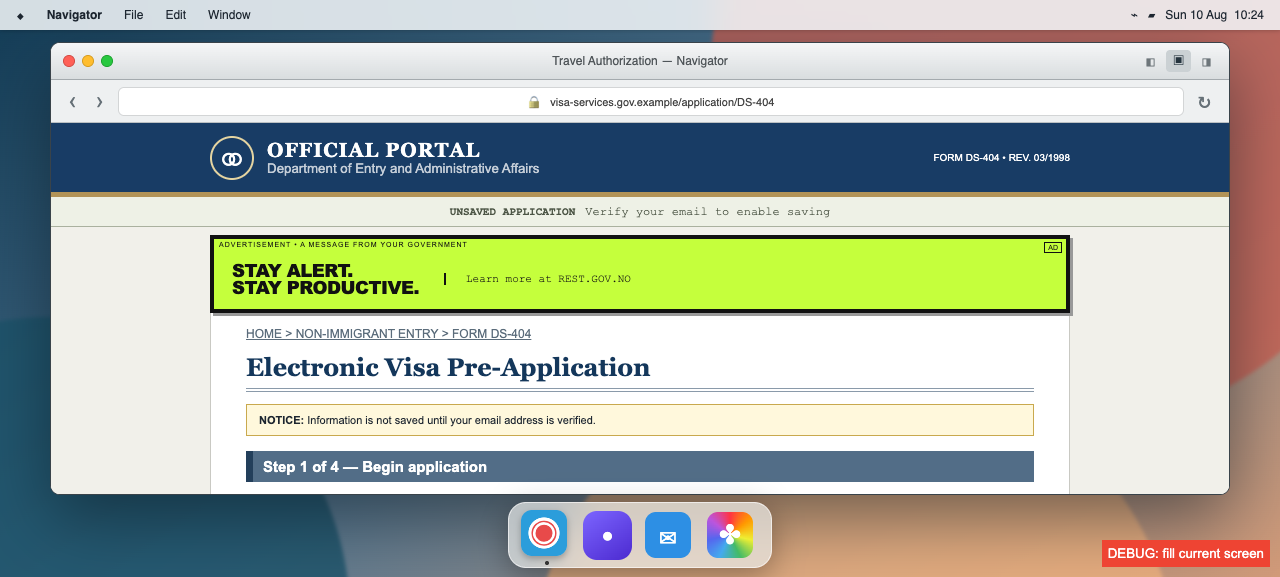
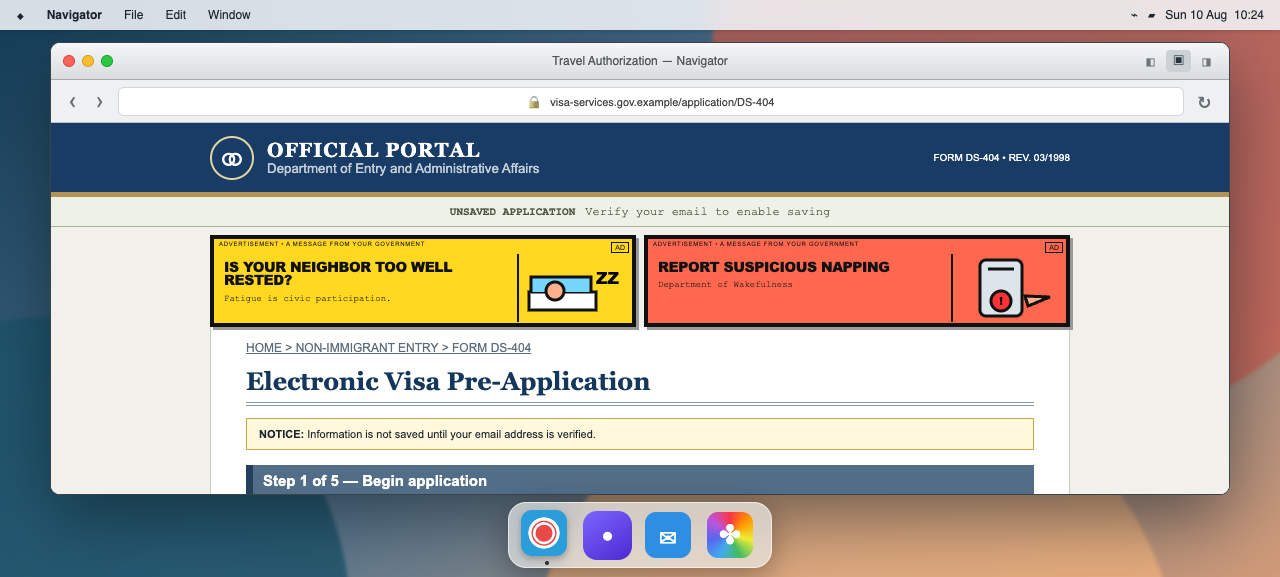
Animate ad artwork while keeping copy readable

Changed region(s): [[0.1562, 0.4055, 0.8438, 0.8735], [0.8438, 0.9359, 1.0, 0.9983]]

diff --git a/aug10/src/style.css b/aug10/src/style.css
@@ -1,3 +1,3 @@
 @import url('https://fonts.googleapis.com/css2?family=DM+Sans:wght@400;500;600;700&family=Libre+Franklin:wght@400;600;700&display=swap');
-*{box-sizing:border-box}body{margin:0;overflow:hidden;font-family:'DM Sans',sans-serif;color:#1d2630}.desktop{height:100vh;min-height:520px;position:relative;overflow:hidden;background:#152f46}.wallpaper{position:absolute;inset:0;background:linear-gradient(145deg,#123b55,#4f7591 46%,#d19a78);overflow:hidden}.orb{position:absolute;border-radius:50%;filter:blur(2px);opacity:.8}.o1{width:700px;height:700px;background:#c75f52;right:-130px;top:-270px}.o2{width:650px;height:650px;background:#efb17e;right:100px;bottom:-430px}.o3{width:600px;height:600px;background:#1b5269;left:-250px;bottom:-340px}.menubar{height:30px;position:absolute;z-index:20;top:0;left:0;right:0;background:rgba(245,248,250,.86);backdrop-filter:blur(16px);display:flex;align-items:center;gap:22px;padding:0 16px;font-size:12px;box-shadow:0 1px 4px #0003}.menubar aside{margin-left:auto}.window{position:absolute;border:1px solid #39434a;border-radius:10px;overflow:hidden;box-shadow:0 24px 70px #07141d88;background:#fff}.titlebar{height:37px;background:linear-gradient(#f5f6f7,#d9dddf);border-bottom:1px solid #a4aaae;display:flex;align-items:center;justify-content:center;font-size:12px;color:#4f5559;position:relative;cursor:grab;touch-action:none;user-select:none}.titlebar:active{cursor:grabbing}.lights{display:flex;gap:7px;position:absolute;left:12px}.lights button,.lights i{display:block;padding:0;width:12px;height:12px;border-radius:50%;background:#ff6057;border:1px solid #d34d46}.lights button:hover:after{content:'×';display:block;font:bold 10px Arial;line-height:9px;color:#7b201c}.lights i:nth-child(2){background:#ffbd2e;border-color:#d79d22}.lights i:nth-child(3){background:#28c840;border-color:#1ea331}.layout-controls{position:absolute;right:10px;display:flex;gap:3px}.layout-controls button{width:25px;height:22px;padding:0;border:1px solid transparent;border-radius:4px;background:transparent;color:#6d757a;cursor:pointer}.layout-controls button:hover{background:#fff;border-color:#b7bdc0}.layout-controls button.selected{background:#cbd1d4;color:#25343e}.window.layout-left,.window.layout-right{top:38px!important;bottom:82px!important;width:calc(50vw - 11px)!important;height:auto!important;min-width:0!important;transform:none!important}.window.layout-left{left:7px!important;right:auto!important}.window.layout-right{right:7px!important;left:auto!important}.browser{inset:52px 50px 86px;z-index:2;min-width:850px}.toolbar{height:43px;background:#eef0f1;display:flex;align-items:center;gap:8px;padding:5px 12px;border-bottom:1px solid #bbc0c3}.toolbar button{border:0;background:none;font-size:22px;color:#667077}.address{height:29px;line-height:29px;background:#fff;border:1px solid #d3d5d6;border-radius:6px;text-align:center;font-size:11px;color:#444;flex:1}.site{height:calc(100% - 80px);overflow:auto;background:#f1f0ea;font-family:Arial,sans-serif}.govbar{height:74px;background:#183c65;color:white;display:flex;align-items:center;padding:8px calc((100% - 860px)/2);gap:13px;border-bottom:5px solid #b29357}.govbar .seal{border:2px solid #e4d4a1;border-radius:50%;height:44px;width:44px;display:grid;place-items:center;font-size:27px}.govbar div{display:flex;flex-direction:column}.govbar b{font-family:Georgia;font-size:20px;letter-spacing:1px}.govbar small{opacity:.75}.govbar em{font-style:normal;font-size:10px;margin-left:auto;white-space:nowrap}.session{height:30px;background:#eef1e6;border-bottom:1px solid #aab19f;display:flex;justify-content:center;align-items:center;gap:10px;font:11px 'Courier New';color:#4c5545}.session span{font-size:12px}.session.urgent{background:#ffd7bd;border-color:#d3652e;color:#8b1b0f;animation:warningPulse 1s steps(2,end) infinite}.session.urgent span{font-size:16px;font-weight:bold}.gov-ad{width:860px;max-width:calc(100% - 40px);height:78px;margin:8px auto 0;background:#ffd81f;border:4px solid #111;position:relative;overflow:hidden;color:#111;font-family:'Arial Black',Arial,sans-serif;box-shadow:3px 3px 0 #999}.gov-ad>small{position:absolute;z-index:4;left:5px;top:2px;font:7px Arial;letter-spacing:1px}.gov-ad>i{position:absolute;right:4px;top:3px;border:1px solid #111;padding:1px 3px;font:7px Arial}.ad-frames{position:absolute;inset:0}.ad-frames>div{position:absolute;inset:0;padding:15px 65px 5px 18px;display:flex;align-items:center;gap:25px;opacity:0;animation:adFrames 6s steps(1,end) infinite}.ad-frames>div:nth-child(2){animation-delay:2s;background:#ff684f}.ad-frames>div:nth-child(3){animation-delay:4s;background:#c5ff3c}.ad-frames b{font-size:18px;line-height:.95;letter-spacing:-.5px}.ad-frames span{font:11px 'Courier New';border-left:2px solid;padding-left:20px}.formbody{width:860px;max-width:calc(100% - 40px);min-height:calc(100% - 128px);margin:auto;background:#fff;border-left:1px solid #c9c9c3;border-right:1px solid #c9c9c3;padding:14px 35px 24px}.crumb{font-size:9px;color:#5b6c7b;margin:0 0 12px;text-decoration:underline}.formbody h1{font:700 25px Georgia;color:#14375b;border-bottom:4px double #8a9aaa;padding-bottom:7px;margin:0 0 12px}.formbody h2{font:bold 15px Arial;color:#fff;background:#526d87;padding:7px 10px;margin:15px 0 12px;border-left:7px solid #233f5b}.formbody p{font-size:12px}.warning{background:#fff8dc;border:1px solid #c9a94e;padding:9px 12px;font-size:11px}.warning.blue{background:#edf5fa;border-color:#8cabbf}.grid{display:grid;grid-template-columns:1fr 1fr;gap:11px 22px}label{display:flex;flex-direction:column;gap:4px;font:bold 11px Arial;color:#273b4d}label.wide{grid-column:1/-1}input{height:29px;border:1px inset #999;border-radius:0;background:#fffefa;padding:4px 7px;font:13px 'Courier New'}input:focus{outline:2px solid #e5ba31;background:#fff}.error{color:#b71f1f;font-weight:normal}.actions{border-top:1px solid #c9c9c9;margin-top:20px;padding-top:12px;display:flex;justify-content:flex-end;gap:10px}.actions button,.success button,.expired button{font:bold 11px Arial;padding:7px 13px;border:1px solid #777;background:linear-gradient(#fff,#ddd);box-shadow:1px 1px 0 #aaa}.actions .continue{background:linear-gradient(#6383a1,#345775);color:white;border-color:#243d53}.help{text-align:center;color:#777;font-style:italic}.tiny{font-size:10px!important}.upload{height:46px;border:1px solid #aaa;background:#f3f3f3;padding:7px;display:flex;justify-content:space-between;align-items:center;font-weight:normal;color:#777}.upload.chosen{color:#216332;background:#f1f8f1}.upload button{font-size:11px}.site footer{text-align:center;padding:12px;background:#183c65;color:#bdc9d4;font-size:9px}.site footer button{border:0;background:none;color:#d5dce3;text-decoration:underline;font:9px Arial;cursor:pointer}.site footer span{margin:0 6px}.policy-page{min-height:420px}.policy-page table{border-collapse:collapse;width:100%;font-size:11px}.policy-page th,.policy-page td{border:1px solid #888;padding:7px;text-align:left}.inaccessible{color:#858b8f;font-size:10px}.inaccessible h1,.inaccessible h2{color:#78838b}.marquee{overflow:hidden;white-space:nowrap;background:#ffff9b;border:1px solid #bbb;padding:4px;color:#999}.marquee span{display:inline-block;animation:marquee 11s linear infinite}.contrast{margin:15px 0;color:#aaa}.privacy-choice{display:flex;flex-direction:row;align-items:center;justify-content:space-between;border:1px solid #bbb;background:#f5f4ed;padding:10px;margin:7px 0;color:#263a4a}.privacy-choice span{display:flex;flex-direction:column;gap:2px}.privacy-choice small{font-weight:normal;color:#666}.privacy-choice input{width:19px;height:19px}.legalese{font:10px/1.25 'Times New Roman'!important;text-align:justify}.cookie-wall{position:absolute;z-index:8;inset:80px 0 0;background:#15202dbb;display:grid;place-items:center;backdrop-filter:blur(2px)}.cookie-box{width:500px;max-width:90%;background:#fff;border:6px solid #ffd51f;box-shadow:0 15px 40px #000;padding:20px 24px;text-align:left;font-family:Arial}.cookie-box h2{font-size:24px;margin:0 0 8px;color:#162f50}.cookie-icon{float:right;font-size:24px;color:#ca9b00;letter-spacing:-8px}.cookie-marketing{display:flex;flex-direction:row;align-items:center;gap:10px;background:#f1f1e9;border:1px solid #aaa;padding:10px;margin:14px 0}.cookie-marketing input{width:22px;height:22px}.cookie-marketing span{display:flex;flex-direction:column}.cookie-marketing small{font-weight:normal}.cookie-buttons{display:flex;gap:8px}.cookie-buttons button{flex:1;padding:11px 8px;border:2px solid #102d4c;background:#173f68;color:#fff;font-weight:bold}.cookie-buttons button+button{background:#fff;color:#173f68}.cookie-box>small{display:block;text-align:center;color:#888;margin-top:9px}.questions{display:flex;flex-direction:column;gap:9px}.questions fieldset{border:1px solid #9aa2a7;background:#f6f6f2;padding:9px 12px}.questions legend{font:bold 11px Arial;color:#263d52;padding:0 5px}.questions label{display:inline-flex;flex-direction:row;align-items:center;margin:5px 22px 0 0;font-weight:normal}.questions input[type=radio]{width:15px;height:15px}.questions .error{display:block;margin-top:4px}.pdf-preview{position:relative;margin:18px auto 5px;background:#fff;color:#111;border:1px solid #aaa;box-shadow:0 5px 16px #0004;padding:24px 28px;font:10px 'Courier New';background-image:linear-gradient(90deg,#fff 0,#fff 97%,#f6f6f6 97%)}.pdf-preview:after{content:'DRAFT';position:absolute;left:30%;top:42%;font:bold 72px Arial;color:#244c7810;transform:rotate(-32deg);pointer-events:none}.pdf-preview>header{display:flex;align-items:center;border-bottom:3px double #111;padding-bottom:10px}.pdf-preview>header .seal{border:2px solid;border-radius:50%;width:42px;height:42px;display:grid;place-items:center;font-size:23px}.pdf-preview>header div{display:flex;flex-direction:column;margin-left:12px;font-size:15px}.pdf-preview>header small{font-size:8px}.pdf-preview>header em{margin-left:auto;font-style:normal}.pdf-preview section{position:relative;border-bottom:1px solid #999;padding:10px 0}.pdf-preview section h3{margin:0 0 8px;font-size:11px}.pdf-preview section>button{position:absolute;right:0;top:7px;border:0;background:none;text-decoration:underline;color:#174d83;font:9px Arial}.pdf-grid{display:grid;grid-template-columns:1fr 1fr;gap:5px 22px}.pdf-row{display:flex;flex-direction:column}.pdf-row span{color:#666;font-size:8px}.pdf-preview footer{background:none!important;color:#777!important;padding:8px 0 0!important;text-align:right!important;font:7px 'Courier New'!important}.submit-final{background:linear-gradient(#842f28,#5e1712)!important}.success{text-align:center;padding:20px 80px}.success .stamp{margin:auto;width:180px;border:5px double #1e7e53;color:#1e7e53;transform:rotate(-5deg);font:bold 25px 'Courier New';padding:8px}.success.denied .stamp{border-color:#a51f1f;color:#a51f1f;transform:rotate(4deg)}.success.denied h1{color:#841c1c}.success h1{margin-top:24px}.success strong{font:22px 'Courier New';display:block;margin:8px}.success .warning{margin:20px}.utility{z-index:10;width:600px;height:520px;left:50%;top:50%;transform:translate(-50%,-50%);background:#f7f7f8}.vaulttop{height:95px;background:#252c36;color:white;display:flex;align-items:center;padding:18px 28px;gap:18px}.vaulttop .key,.dock .key{width:49px;height:49px;border-radius:14px;background:linear-gradient(145deg,#7c65ff,#4c2ad0);display:grid;place-items:center;color:#fff;font-size:20px}.vaulttop div{display:flex;flex-direction:column}.vaulttop b{font-size:20px}.vaulttop small{color:#acb1ba}.tabs{padding:12px 20px 0;display:flex;gap:6px}.tabs button{border:0;background:none;padding:7px 12px}.tabs .sel{background:#e1e1e6;border-radius:7px;font-weight:bold}.records{margin:8px 20px;background:white;border:1px solid #ddd;border-radius:9px;overflow:hidden}.records button{border:0;border-bottom:1px solid #e6e6e6;background:white;width:100%;height:47px;display:grid;grid-template-columns:160px 1fr 20px;align-items:center;text-align:left;padding:0 15px}.records button:hover{background:#eeebff}.records span{font-size:11px;color:#777}.records b{font-size:12px}.records i{font-style:normal;color:#7760df}.copyhint{text-align:center;color:#929292;font-size:10px}.mail{width:760px;height:520px}.mailcols{height:calc(100% - 37px);display:grid;grid-template-columns:130px 1fr}.mailcols>aside,.photobody>aside{background:#e9ebed;padding:20px 16px;display:flex;flex-direction:column;gap:15px;font-size:12px}.mailcols>aside b{color:#336da3}.messageitem{height:64px;border-bottom:1px solid #ddd;padding:10px 18px;display:grid;grid-template-columns:1fr auto}.messageitem span{font-size:11px;grid-column:1}.messageitem time{font-size:10px;grid-column:2;grid-row:1}.mail article{padding:20px 32px}.mail article small{color:#777}.mail article h3{font-size:19px}.empty-inbox{height:100%;display:flex;flex-direction:column;align-items:center;justify-content:center;color:#8a9298}.empty-inbox span{font-size:42px;opacity:.45}.empty-inbox b{margin-top:12px}.empty-inbox p{font-size:11px}.code{font:600 26px 'Courier New';letter-spacing:5px;padding:12px 18px;background:#f1f3f5;border:1px solid #ccd0d3}.code i{font:10px Arial;letter-spacing:0;color:#777}.photos{width:760px;height:530px}.photobody{height:calc(100% - 37px);display:grid;grid-template-columns:145px 1fr}.photobody>div{padding:16px 20px}.photobody h3{margin:0 0 15px}.photoGrid{display:grid;grid-template-columns:repeat(3,1fr);gap:16px}.photoGrid button{border:0;background:none;padding:0;text-align:left}.photoGrid button>div{height:120px;border-radius:4px;background:#8bb7ce;display:grid;place-items:center;overflow:hidden;position:relative;font-size:45px;color:white}.photoGrid button:nth-child(2)>div{background:#ded5cb}.photoGrid button:nth-child(3)>div{background:#d59758}.photoGrid button:nth-child(4)>div{background:linear-gradient(#73b6df 60%,#e5d0a0 60%)}.photoGrid button:nth-child(5)>div{background:#eee8d7}.photoGrid button:nth-child(6)>div{background:#566e82}.photoGrid button b{font-size:10px}.photoGrid .picked>div,.photoGrid button:hover>div{outline:4px solid #2584e8}.head{position:absolute;top:20px;width:42px;height:48px;border-radius:50%;background:#8b5c41}.body{position:absolute;bottom:-20px;width:90px;height:75px;border-radius:50% 50% 0 0;background:#344b68}.dock{height:66px;position:absolute;z-index:30;bottom:9px;left:50%;transform:translateX(-50%);display:flex;gap:10px;background:#eef1f0aa;backdrop-filter:blur(18px);border:1px solid #ffffff99;border-radius:18px;padding:7px 12px;box-shadow:0 8px 30px #0005}.dock button{width:52px;border:0;background:none;position:relative;padding:0}.dock button>span{display:grid;place-items:center;width:46px;height:46px;border-radius:11px;font-size:28px}.dock .safari{background:radial-gradient(circle,#fff 47%,#2b9ddb 49%);color:#e84a4a}.dock .envelope{background:#2d8fe4;color:white}.dock .flower{background:conic-gradient(#f34,#f90,#ee3,#4b6,#4ae,#56e,#b5d,#f34);color:white}.dock i{display:none;position:absolute;top:-28px;left:50%;transform:translateX(-50%);background:#222;color:#fff;border-radius:4px;padding:4px 7px;font:10px Arial}.dock button:hover i{display:block}.dock button.open:after{content:'';position:absolute;bottom:-5px;left:24px;width:4px;height:4px;background:#333;border-radius:50%}.dock button.active>span{transform:translateY(-2px);box-shadow:0 3px 7px #0004}.toast{position:absolute;z-index:60;top:50px;left:50%;transform:translateX(-50%);padding:10px 16px;background:#222d;color:#fff;border-radius:8px;font-size:12px;box-shadow:0 5px 20px #0005}.blocker{position:absolute;z-index:55;inset:30px 0 0;background:#fff2;backdrop-filter:blur(1px);display:grid;place-items:center}.oldmodal{width:330px;background:#eee;border:2px outset #fff;box-shadow:5px 8px 20px #0008;padding:18px;font:12px Arial;text-align:center}.oldmodal b{display:block;font-size:15px;margin-bottom:14px}.oldmodal span{font-size:10px}.bar{height:17px;border:2px inset #ddd;background:#fff;margin:12px}.bar i{display:block;height:100%;width:70%;background:repeating-linear-gradient(90deg,#315d91 0 12px,#fff 12px 14px);animation:loading 1.2s infinite}.expired{background:#f1f1f1}.expired b{color:#9b1717}.debug{position:absolute;z-index:100;right:10px;bottom:10px;background:#e43;color:white;border:0;padding:6px}@keyframes loading{from{width:15%}to{width:90%}}@keyframes warningPulse{50%{background:#fff0c5}}@keyframes adFrames{0%,32%{opacity:1}33%,100%{opacity:0}}@keyframes marquee{from{transform:translateX(100%)}to{transform:translateX(-100%)}}@media(max-height:700px){.browser{inset:42px 50px 82px}.utility{height:calc(100vh - 90px);top:48%;}.vaulttop{height:72px;padding:10px 28px}.records button{height:41px}}
+*{box-sizing:border-box}body{margin:0;overflow:hidden;font-family:'DM Sans',sans-serif;color:#1d2630}.desktop{height:100vh;min-height:520px;position:relative;overflow:hidden;background:#152f46}.wallpaper{position:absolute;inset:0;background:linear-gradient(145deg,#123b55,#4f7591 46%,#d19a78);overflow:hidden}.orb{position:absolute;border-radius:50%;filter:blur(2px);opacity:.8}.o1{width:700px;height:700px;background:#c75f52;right:-130px;top:-270px}.o2{width:650px;height:650px;background:#efb17e;right:100px;bottom:-430px}.o3{width:600px;height:600px;background:#1b5269;left:-250px;bottom:-340px}.menubar{height:30px;position:absolute;z-index:20;top:0;left:0;right:0;background:rgba(245,248,250,.86);backdrop-filter:blur(16px);display:flex;align-items:center;gap:22px;padding:0 16px;font-size:12px;box-shadow:0 1px 4px #0003}.menubar aside{margin-left:auto}.window{position:absolute;border:1px solid #39434a;border-radius:10px;overflow:hidden;box-shadow:0 24px 70px #07141d88;background:#fff}.titlebar{height:37px;background:linear-gradient(#f5f6f7,#d9dddf);border-bottom:1px solid #a4aaae;display:flex;align-items:center;justify-content:center;font-size:12px;color:#4f5559;position:relative;cursor:grab;touch-action:none;user-select:none}.titlebar:active{cursor:grabbing}.lights{display:flex;gap:7px;position:absolute;left:12px}.lights button,.lights i{display:block;padding:0;width:12px;height:12px;border-radius:50%;background:#ff6057;border:1px solid #d34d46}.lights button:hover:after{content:'×';display:block;font:bold 10px Arial;line-height:9px;color:#7b201c}.lights i:nth-child(2){background:#ffbd2e;border-color:#d79d22}.lights i:nth-child(3){background:#28c840;border-color:#1ea331}.layout-controls{position:absolute;right:10px;display:flex;gap:3px}.layout-controls button{width:25px;height:22px;padding:0;border:1px solid transparent;border-radius:4px;background:transparent;color:#6d757a;cursor:pointer}.layout-controls button:hover{background:#fff;border-color:#b7bdc0}.layout-controls button.selected{background:#cbd1d4;color:#25343e}.window.layout-left,.window.layout-right{top:38px!important;bottom:82px!important;width:calc(50vw - 11px)!important;height:auto!important;min-width:0!important;transform:none!important}.window.layout-left{left:7px!important;right:auto!important}.window.layout-right{right:7px!important;left:auto!important}.browser{inset:52px 50px 86px;z-index:2;min-width:850px}.toolbar{height:43px;background:#eef0f1;display:flex;align-items:center;gap:8px;padding:5px 12px;border-bottom:1px solid #bbc0c3}.toolbar button{border:0;background:none;font-size:22px;color:#667077}.address{height:29px;line-height:29px;background:#fff;border:1px solid #d3d5d6;border-radius:6px;text-align:center;font-size:11px;color:#444;flex:1}.site{height:calc(100% - 80px);overflow:auto;background:#f1f0ea;font-family:Arial,sans-serif}.govbar{height:74px;background:#183c65;color:white;display:flex;align-items:center;padding:8px calc((100% - 860px)/2);gap:13px;border-bottom:5px solid #b29357}.govbar .seal{border:2px solid #e4d4a1;border-radius:50%;height:44px;width:44px;display:grid;place-items:center;font-size:27px}.govbar div{display:flex;flex-direction:column}.govbar b{font-family:Georgia;font-size:20px;letter-spacing:1px}.govbar small{opacity:.75}.govbar em{font-style:normal;font-size:10px;margin-left:auto;white-space:nowrap}.session{height:30px;background:#eef1e6;border-bottom:1px solid #aab19f;display:flex;justify-content:center;align-items:center;gap:10px;font:11px 'Courier New';color:#4c5545}.session span{font-size:12px}.session.urgent{background:#ffd7bd;border-color:#d3652e;color:#8b1b0f;animation:warningPulse 1s steps(2,end) infinite}.session.urgent span{font-size:16px;font-weight:bold}.gov-ads{width:860px;max-width:calc(100% - 40px);margin:8px auto 0;display:grid;grid-template-columns:1fr 1fr;gap:8px}.gov-ad{height:92px;background:#ffd81f;border:4px solid #111;position:relative;overflow:hidden;color:#111;font-family:'Arial Black',Arial,sans-serif;box-shadow:3px 3px 0 #999}.gov-ad.ad-1{background:#ff684f}.gov-ad.ad-2{background:#c5ff3c}.gov-ad>small{position:absolute;z-index:4;left:5px;top:2px;font:6px Arial;letter-spacing:.7px}.gov-ad>i{position:absolute;z-index:4;right:3px;top:3px;border:1px solid #111;padding:1px 3px;font:7px Arial}.ad-copy{position:absolute;left:10px;top:21px;width:calc(100% - 126px);display:flex;flex-direction:column;gap:7px}.ad-copy b{font-size:14px;line-height:.95;letter-spacing:-.4px}.ad-copy span{font:9px 'Courier New'}.ad-art{position:absolute;right:3px;bottom:1px;width:112px;height:68px;border-left:2px solid #111}.art-frame{position:absolute;inset:3px;width:104px;height:62px;opacity:0;animation:adArtFrames 5s steps(1,end) infinite}.art-frame:nth-child(2){animation-delay:1.25s}.art-frame:nth-child(3){animation-delay:2.5s}.art-frame:nth-child(4){animation-delay:3.75s}.formbody{width:860px;max-width:calc(100% - 40px);min-height:calc(100% - 128px);margin:auto;background:#fff;border-left:1px solid #c9c9c3;border-right:1px solid #c9c9c3;padding:14px 35px 24px}.crumb{font-size:9px;color:#5b6c7b;margin:0 0 12px;text-decoration:underline}.formbody h1{font:700 25px Georgia;color:#14375b;border-bottom:4px double #8a9aaa;padding-bottom:7px;margin:0 0 12px}.formbody h2{font:bold 15px Arial;color:#fff;background:#526d87;padding:7px 10px;margin:15px 0 12px;border-left:7px solid #233f5b}.formbody p{font-size:12px}.warning{background:#fff8dc;border:1px solid #c9a94e;padding:9px 12px;font-size:11px}.warning.blue{background:#edf5fa;border-color:#8cabbf}.grid{display:grid;grid-template-columns:1fr 1fr;gap:11px 22px}label{display:flex;flex-direction:column;gap:4px;font:bold 11px Arial;color:#273b4d}label.wide{grid-column:1/-1}input{height:29px;border:1px inset #999;border-radius:0;background:#fffefa;padding:4px 7px;font:13px 'Courier New'}input:focus{outline:2px solid #e5ba31;background:#fff}.error{color:#b71f1f;font-weight:normal}.actions{border-top:1px solid #c9c9c9;margin-top:20px;padding-top:12px;display:flex;justify-content:flex-end;gap:10px}.actions button,.success button,.expired button{font:bold 11px Arial;padding:7px 13px;border:1px solid #777;background:linear-gradient(#fff,#ddd);box-shadow:1px 1px 0 #aaa}.actions .continue{background:linear-gradient(#6383a1,#345775);color:white;border-color:#243d53}.help{text-align:center;color:#777;font-style:italic}.tiny{font-size:10px!important}.upload{height:46px;border:1px solid #aaa;background:#f3f3f3;padding:7px;display:flex;justify-content:space-between;align-items:center;font-weight:normal;color:#777}.upload.chosen{color:#216332;background:#f1f8f1}.upload button{font-size:11px}.site footer{text-align:center;padding:12px;background:#183c65;color:#bdc9d4;font-size:9px}.site footer button{border:0;background:none;color:#d5dce3;text-decoration:underline;font:9px Arial;cursor:pointer}.site footer span{margin:0 6px}.policy-page{min-height:420px}.policy-page table{border-collapse:collapse;width:100%;font-size:11px}.policy-page th,.policy-page td{border:1px solid #888;padding:7px;text-align:left}.inaccessible{color:#858b8f;font-size:10px}.inaccessible h1,.inaccessible h2{color:#78838b}.marquee{overflow:hidden;white-space:nowrap;background:#ffff9b;border:1px solid #bbb;padding:4px;color:#999}.marquee span{display:inline-block;animation:marquee 11s linear infinite}.contrast{margin:15px 0;color:#aaa}.privacy-choice{display:flex;flex-direction:row;align-items:center;justify-content:space-between;border:1px solid #bbb;background:#f5f4ed;padding:10px;margin:7px 0;color:#263a4a}.privacy-choice span{display:flex;flex-direction:column;gap:2px}.privacy-choice small{font-weight:normal;color:#666}.privacy-choice input{width:19px;height:19px}.legalese{font:10px/1.25 'Times New Roman'!important;text-align:justify}.cookie-wall{position:absolute;z-index:8;inset:80px 0 0;background:#15202dbb;display:grid;place-items:center;backdrop-filter:blur(2px)}.cookie-box{width:500px;max-width:90%;background:#fff;border:6px solid #ffd51f;box-shadow:0 15px 40px #000;padding:20px 24px;text-align:left;font-family:Arial}.cookie-box h2{font-size:24px;margin:0 0 8px;color:#162f50}.cookie-icon{float:right;font-size:24px;color:#ca9b00;letter-spacing:-8px}.cookie-marketing{display:flex;flex-direction:row;align-items:center;gap:10px;background:#f1f1e9;border:1px solid #aaa;padding:10px;margin:14px 0}.cookie-marketing input{width:22px;height:22px}.cookie-marketing span{display:flex;flex-direction:column}.cookie-marketing small{font-weight:normal}.cookie-buttons{display:flex;gap:8px}.cookie-buttons button{flex:1;padding:11px 8px;border:2px solid #102d4c;background:#173f68;color:#fff;font-weight:bold}.cookie-buttons button+button{background:#fff;color:#173f68}.cookie-box>small{display:block;text-align:center;color:#888;margin-top:9px}.questions{display:flex;flex-direction:column;gap:9px}.questions fieldset{border:1px solid #9aa2a7;background:#f6f6f2;padding:9px 12px}.questions legend{font:bold 11px Arial;color:#263d52;padding:0 5px}.questions label{display:inline-flex;flex-direction:row;align-items:center;margin:5px 22px 0 0;font-weight:normal}.questions input[type=radio]{width:15px;height:15px}.questions .error{display:block;margin-top:4px}.pdf-preview{position:relative;margin:18px auto 5px;background:#fff;color:#111;border:1px solid #aaa;box-shadow:0 5px 16px #0004;padding:24px 28px;font:10px 'Courier New';background-image:linear-gradient(90deg,#fff 0,#fff 97%,#f6f6f6 97%)}.pdf-preview:after{content:'DRAFT';position:absolute;left:30%;top:42%;font:bold 72px Arial;color:#244c7810;transform:rotate(-32deg);pointer-events:none}.pdf-preview>header{display:flex;align-items:center;border-bottom:3px double #111;padding-bottom:10px}.pdf-preview>header .seal{border:2px solid;border-radius:50%;width:42px;height:42px;display:grid;place-items:center;font-size:23px}.pdf-preview>header div{display:flex;flex-direction:column;margin-left:12px;font-size:15px}.pdf-preview>header small{font-size:8px}.pdf-preview>header em{margin-left:auto;font-style:normal}.pdf-preview section{position:relative;border-bottom:1px solid #999;padding:10px 0}.pdf-preview section h3{margin:0 0 8px;font-size:11px}.pdf-preview section>button{position:absolute;right:0;top:7px;border:0;background:none;text-decoration:underline;color:#174d83;font:9px Arial}.pdf-grid{display:grid;grid-template-columns:1fr 1fr;gap:5px 22px}.pdf-row{display:flex;flex-direction:column}.pdf-row span{color:#666;font-size:8px}.pdf-preview footer{background:none!important;color:#777!important;padding:8px 0 0!important;text-align:right!important;font:7px 'Courier New'!important}.submit-final{background:linear-gradient(#842f28,#5e1712)!important}.success{text-align:center;padding:20px 80px}.success .stamp{margin:auto;width:180px;border:5px double #1e7e53;color:#1e7e53;transform:rotate(-5deg);font:bold 25px 'Courier New';padding:8px}.success.denied .stamp{border-color:#a51f1f;color:#a51f1f;transform:rotate(4deg)}.success.denied h1{color:#841c1c}.success h1{margin-top:24px}.success strong{font:22px 'Courier New';display:block;margin:8px}.success .warning{margin:20px}.utility{z-index:10;width:600px;height:520px;left:50%;top:50%;transform:translate(-50%,-50%);background:#f7f7f8}.vaulttop{height:95px;background:#252c36;color:white;display:flex;align-items:center;padding:18px 28px;gap:18px}.vaulttop .key,.dock .key{width:49px;height:49px;border-radius:14px;background:linear-gradient(145deg,#7c65ff,#4c2ad0);display:grid;place-items:center;color:#fff;font-size:20px}.vaulttop div{display:flex;flex-direction:column}.vaulttop b{font-size:20px}.vaulttop small{color:#acb1ba}.tabs{padding:12px 20px 0;display:flex;gap:6px}.tabs button{border:0;background:none;padding:7px 12px}.tabs .sel{background:#e1e1e6;border-radius:7px;font-weight:bold}.records{margin:8px 20px;background:white;border:1px solid #ddd;border-radius:9px;overflow:hidden}.records button{border:0;border-bottom:1px solid #e6e6e6;background:white;width:100%;height:47px;display:grid;grid-template-columns:160px 1fr 20px;align-items:center;text-align:left;padding:0 15px}.records button:hover{background:#eeebff}.records span{font-size:11px;color:#777}.records b{font-size:12px}.records i{font-style:normal;color:#7760df}.copyhint{text-align:center;color:#929292;font-size:10px}.mail{width:760px;height:520px}.mailcols{height:calc(100% - 37px);display:grid;grid-template-columns:130px 1fr}.mailcols>aside,.photobody>aside{background:#e9ebed;padding:20px 16px;display:flex;flex-direction:column;gap:15px;font-size:12px}.mailcols>aside b{color:#336da3}.messageitem{height:64px;border-bottom:1px solid #ddd;padding:10px 18px;display:grid;grid-template-columns:1fr auto}.messageitem span{font-size:11px;grid-column:1}.messageitem time{font-size:10px;grid-column:2;grid-row:1}.mail article{padding:20px 32px}.mail article small{color:#777}.mail article h3{font-size:19px}.empty-inbox{height:100%;display:flex;flex-direction:column;align-items:center;justify-content:center;color:#8a9298}.empty-inbox span{font-size:42px;opacity:.45}.empty-inbox b{margin-top:12px}.empty-inbox p{font-size:11px}.code{font:600 26px 'Courier New';letter-spacing:5px;padding:12px 18px;background:#f1f3f5;border:1px solid #ccd0d3}.code i{font:10px Arial;letter-spacing:0;color:#777}.photos{width:760px;height:530px}.photobody{height:calc(100% - 37px);display:grid;grid-template-columns:145px 1fr}.photobody>div{padding:16px 20px}.photobody h3{margin:0 0 15px}.photoGrid{display:grid;grid-template-columns:repeat(3,1fr);gap:16px}.photoGrid button{border:0;background:none;padding:0;text-align:left}.photoGrid button>div{height:120px;border-radius:4px;background:#8bb7ce;display:grid;place-items:center;overflow:hidden;position:relative;font-size:45px;color:white}.photoGrid button:nth-child(2)>div{background:#ded5cb}.photoGrid button:nth-child(3)>div{background:#d59758}.photoGrid button:nth-child(4)>div{background:linear-gradient(#73b6df 60%,#e5d0a0 60%)}.photoGrid button:nth-child(5)>div{background:#eee8d7}.photoGrid button:nth-child(6)>div{background:#566e82}.photoGrid button b{font-size:10px}.photoGrid .picked>div,.photoGrid button:hover>div{outline:4px solid #2584e8}.head{position:absolute;top:20px;width:42px;height:48px;border-radius:50%;background:#8b5c41}.body{position:absolute;bottom:-20px;width:90px;height:75px;border-radius:50% 50% 0 0;background:#344b68}.dock{height:66px;position:absolute;z-index:30;bottom:9px;left:50%;transform:translateX(-50%);display:flex;gap:10px;background:#eef1f0aa;backdrop-filter:blur(18px);border:1px solid #ffffff99;border-radius:18px;padding:7px 12px;box-shadow:0 8px 30px #0005}.dock button{width:52px;border:0;background:none;position:relative;padding:0}.dock button>span{display:grid;place-items:center;width:46px;height:46px;border-radius:11px;font-size:28px}.dock .safari{background:radial-gradient(circle,#fff 47%,#2b9ddb 49%);color:#e84a4a}.dock .envelope{background:#2d8fe4;color:white}.dock .flower{background:conic-gradient(#f34,#f90,#ee3,#4b6,#4ae,#56e,#b5d,#f34);color:white}.dock i{display:none;position:absolute;top:-28px;left:50%;transform:translateX(-50%);background:#222;color:#fff;border-radius:4px;padding:4px 7px;font:10px Arial}.dock button:hover i{display:block}.dock button.open:after{content:'';position:absolute;bottom:-5px;left:24px;width:4px;height:4px;background:#333;border-radius:50%}.dock button.active>span{transform:translateY(-2px);box-shadow:0 3px 7px #0004}.toast{position:absolute;z-index:60;top:50px;left:50%;transform:translateX(-50%);padding:10px 16px;background:#222d;color:#fff;border-radius:8px;font-size:12px;box-shadow:0 5px 20px #0005}.blocker{position:absolute;z-index:55;inset:30px 0 0;background:#fff2;backdrop-filter:blur(1px);display:grid;place-items:center}.oldmodal{width:330px;background:#eee;border:2px outset #fff;box-shadow:5px 8px 20px #0008;padding:18px;font:12px Arial;text-align:center}.oldmodal b{display:block;font-size:15px;margin-bottom:14px}.oldmodal span{font-size:10px}.bar{height:17px;border:2px inset #ddd;background:#fff;margin:12px}.bar i{display:block;height:100%;width:70%;background:repeating-linear-gradient(90deg,#315d91 0 12px,#fff 12px 14px);animation:loading 1.2s infinite}.expired{background:#f1f1f1}.expired b{color:#9b1717}.debug{position:absolute;z-index:100;right:10px;bottom:10px;background:#e43;color:white;border:0;padding:6px}@keyframes loading{from{width:15%}to{width:90%}}@keyframes warningPulse{50%{background:#fff0c5}}@keyframes adArtFrames{0%,24%{opacity:1}25%,100%{opacity:0}}@keyframes marquee{from{transform:translateX(100%)}to{transform:translateX(-100%)}}@media(max-height:700px){.browser{inset:42px 50px 82px}.utility{height:calc(100vh - 90px);top:48%;}.vaulttop{height:72px;padding:10px 28px}.records button{height:41px}}
 @media(max-width:900px){.browser{inset:40px 8px 80px}.formbody{max-width:100%;padding:14px 20px}.utility{width:90%}.govbar{padding:8px 14px}.grid{gap:8px}.menubar span{display:none}}

diff --git a/aug10/src/main.tsx b/aug10/src/main.tsx
@@ -50,7 +50,13 @@ function WindowTitle({title,win}:{title:string;win:WindowProps}){
   </div>
 }
 
-function GovAd(){return <aside className="gov-ad" aria-label="Advertisement"><small>ADVERTISEMENT • A MESSAGE FROM YOUR GOVERNMENT</small><div className="ad-frames"><div><b>IS YOUR NEIGHBOR<br/>TOO WELL RESTED?</b><span>Fatigue is civic participation.</span></div><div><b>REPORT<br/>SUSPICIOUS NAPPING</b><span>Department of Wakefulness</span></div><div><b>STAY ALERT.<br/>STAY PRODUCTIVE.</b><span>Learn more at REST.GOV.NO</span></div></div><i>AD</i></aside>}
+function AdArt({variant,frame}:{variant:number;frame:number}){
+ if(variant===0)return <svg className="art-frame" viewBox="0 0 100 62" aria-hidden="true"><rect x="5" y="35" width="67" height="18" fill="#fff" stroke="#111" strokeWidth="3"/><path d="M7 35V20H67V35" fill="#77d6ff" stroke="#111" strokeWidth="3"/><circle cx={25+frame*3} cy="34" r="9" fill="#ffb18c" stroke="#111" strokeWidth="3"/><text x="72" y={33-frame*3} fontSize={12+frame*2} fontWeight="bold">{'Z'.repeat(Math.max(1,4-frame))}</text></svg>;
+ if(variant===1)return <svg className="art-frame" viewBox="0 0 100 62" aria-hidden="true"><rect x="22" y="3" width="42" height="56" rx="6" fill="#dce6ea" stroke="#111" strokeWidth="3"/><circle cx="43" cy="44" r="10" fill="#f33" stroke="#111" strokeWidth="3"/><text x="43" y="48" textAnchor="middle" fontSize="11" fontWeight="bold">!</text><path d={`M92 ${58-frame*9} L67 ${49-frame*5} L70 ${59-frame*5} Z`} fill="#ffb18c" stroke="#111" strokeWidth="3"/><path d="M30 12H56" stroke="#111" strokeWidth="3"/></svg>;
+ return <svg className="art-frame" viewBox="0 0 100 62" aria-hidden="true"><circle cx="22" cy="18" r="10" fill="#ffb18c" stroke="#111" strokeWidth="3"/><path d="M8 59V35Q22 25 36 35V59" fill="#2d72a9" stroke="#111" strokeWidth="3"/><path d="M45 51H92" stroke="#111" strokeWidth="5"/><rect x="47" y="12" width="10" height={9+frame*10} fill="#111"/><rect x="60" y="12" width="10" height={frame>0?19+frame*7:4} fill="#111"/><rect x="73" y="12" width="10" height={frame>1?24+frame*5:4} fill="#111"/><path d="M15 15Q22 20 29 15" fill="none" stroke="#111" strokeWidth="2"/></svg>
+}
+function GovAd({variant}:{variant:number}){const copy=[['IS YOUR NEIGHBOR TOO WELL RESTED?','Fatigue is civic participation.'],['REPORT SUSPICIOUS NAPPING','Department of Wakefulness'],['STAY ALERT. STAY PRODUCTIVE.','Learn more at REST.GOV.NO']][variant];return <aside className={`gov-ad ad-${variant}`} aria-label="Advertisement"><small>ADVERTISEMENT • A MESSAGE FROM YOUR GOVERNMENT</small><div className="ad-copy"><b>{copy[0]}</b><span>{copy[1]}</span></div><div className="ad-art">{[0,1,2,3].map(frame=><AdArt key={frame} variant={variant} frame={frame}/>)}</div><i>AD</i></aside>}
+function GovAds({page}:{page:number}){const sets=[[0,1],[1,2],[2,0],[0,2],[1,0],[2,1],[0,1]];return <div className="gov-ads">{sets[page%sets.length].map(variant=><GovAd key={variant} variant={variant}/>)}</div>}
 
 function AccessibilityPage({back}:{back:()=>void}){return <div className="policy-page inaccessible"><p className="crumb">HOME &gt; ACCESSIBILITY (BEST VIEWED AT 100%)</p><h1>Accessibility Compliance Information</h1><div className="marquee"><span>Accessibility is everybody's responsibility. Thank you for doing your part.</span></div><h2>Supported assistive technologies</h2><table><tbody><tr><th>Technology</th><th>Support level</th></tr><tr><td>JAWS 6.0 / Windows XP</td><td>Certified*</td></tr><tr><td>Keyboard</td><td>Press TAB until the desired item is selected</td></tr><tr><td>Screen magnification</td><td>Not recommended; page elements may move</td></tr><tr><td>Other</td><td>Please print this website and ask a trusted person for help</td></tr></tbody></table><small>* Certification performed internally at 800 × 600 resolution. Results are no longer available.</small><h2>Alternative access request</h2><p>To request this page in an accessible format, download Form A-11, print it, and fax it to the number printed on Form A-11. Allow 90 business days.</p><label className="contrast"><input type="checkbox" disabled/> Enable high contrast (temporarily unavailable)</label><div className="actions"><button onClick={back}>&lt;&lt; Return to application</button></div></div>}
 
@@ -224,7 +230,7 @@ function Browser({page,data,setData,errors,setErrors,time,seconds,account,setAcc
   <div className="site" ref={siteRef}>
    <div className="govbar"><span className="seal">⚭</span><div><b>OFFICIAL PORTAL</b><small>Department of Entry and Administrative Affairs</small></div><em>FORM DS-404 • REV. 03/1998</em></div>
    {siteView==='form'&&page<6&&<div className={`session ${!account&&seconds<=60?'urgent':''}`}><b>{account?'✓ APPLICATION SAVED':seconds<=60?'⚠ SESSION EXPIRES':'UNSAVED APPLICATION'} </b><span>{account?'Account verified':seconds<=60?time:'Verify your email to enable saving'}</span></div>}
-   {siteView==='form'&&marketingAds&&<GovAd/>}
+   {siteView==='form'&&marketingAds&&<GovAds page={page}/>}
    <div className="formbody">
     {siteView==='accessibility'&&<AccessibilityPage back={()=>setSiteView('form')}/>}
     {siteView==='privacy'&&<PrivacyPage back={()=>setSiteView('form')} marketing={draftMarketing} setMarketing={setDraftMarketing}/>}
